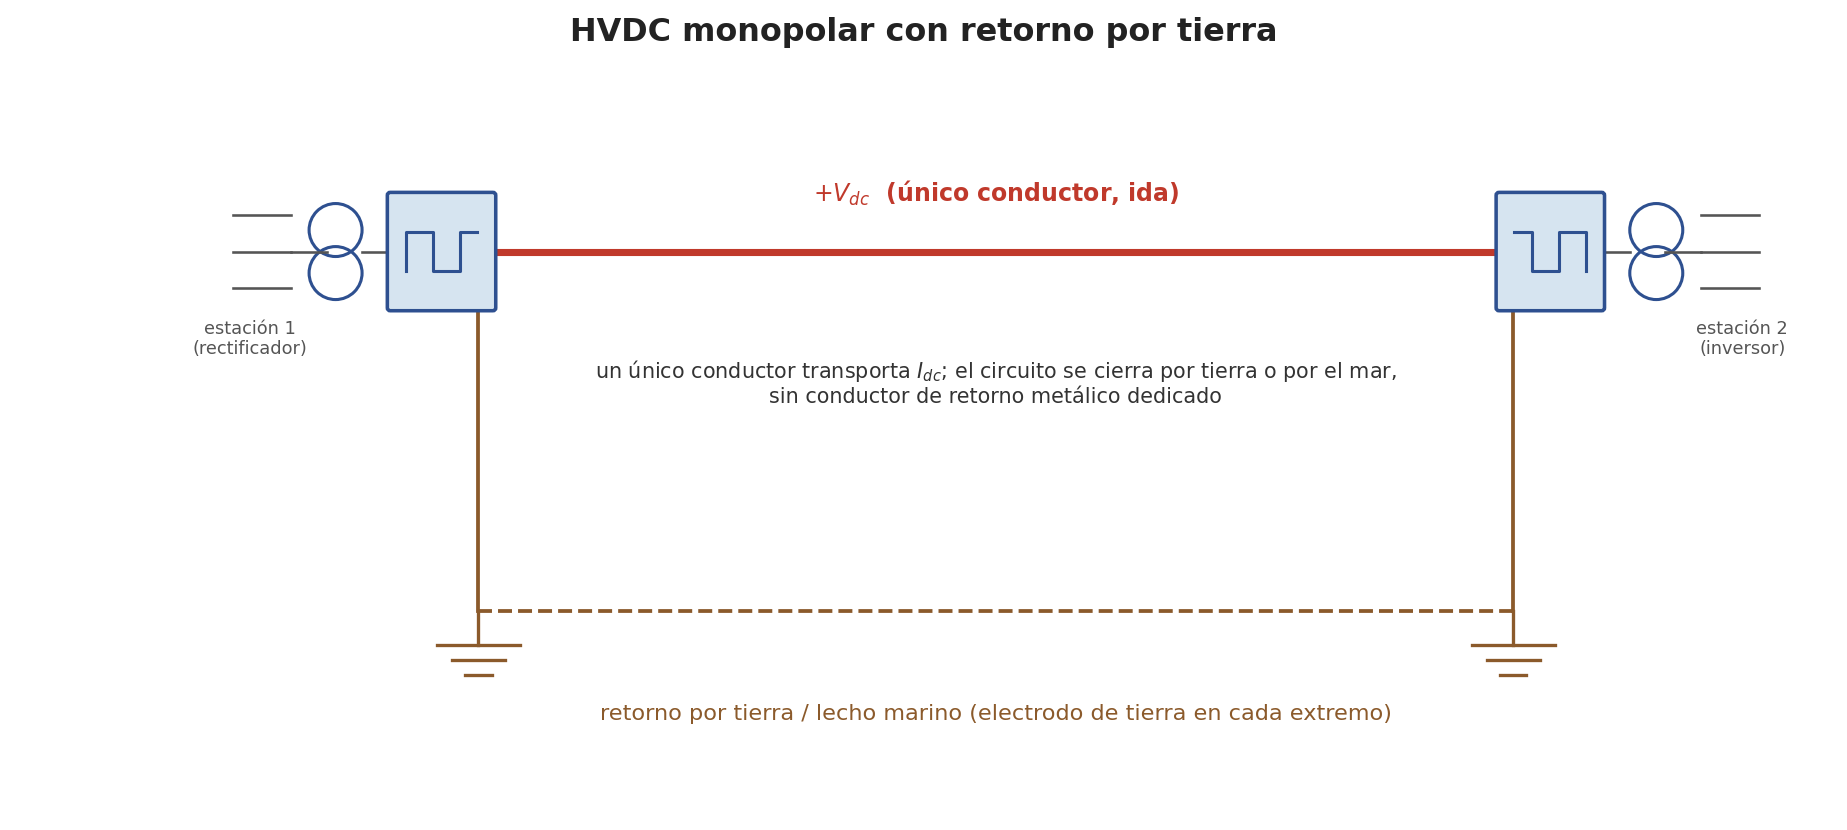
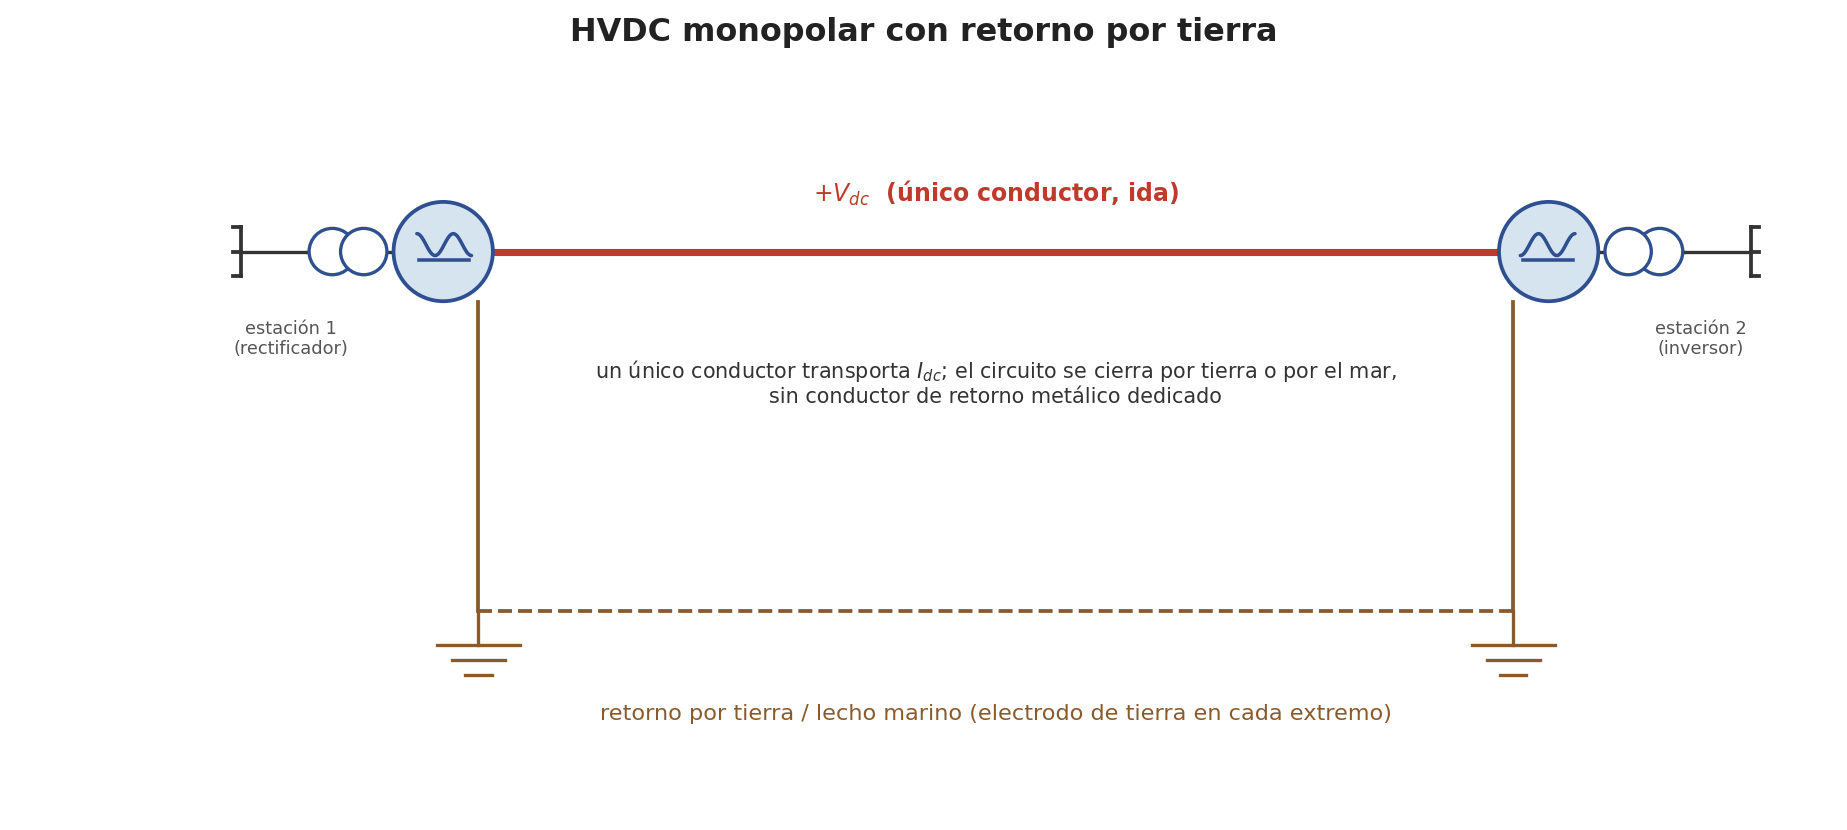
hvdc config: corrige el simbolo del terminal, que se veia mal por dos razones: el transformador tenia los dos circulos apilados verticalmente (parecia girado 90 grados) en vez de en serie a lo largo del cable como el simbolo unifilar real, y el convertidor usaba una onda cuadrada inventada sin signi

diff --git a/00 - Repositorio/gen_figuras.py b/00 - Repositorio/gen_figuras.py
@@ -16233,33 +16233,47 @@ def _lcc_conmutacion_natural():
 
 
 def _hvdc_terminal(ax, x, y, lbl='', flip=False, scale=1.0, col='#2e5090'):
-    """Dibuja un terminal VSC-HVDC estilizado: red AC (barras trifasicas) ->
-    transformador (dos circulos solapados) -> convertidor (rectangulo con
-    simbolo de onda). flip=True lo dibuja en espejo (terminal de la derecha,
-    apuntando hacia la izquierda)."""
-    import matplotlib.patches as mpatches
+    """Dibuja un terminal VSC-HVDC con simbologia unifilar estandar: barras
+    trifasicas (3 rayas) -> transformador (dos circulos EN LA DIRECCION DEL
+    CABLE, uno tras otro, no apilados) -> convertidor (rombo/circulo partido
+    con simbolo IEC: ~ en el lado AC, — en el lado DC). flip=True lo dibuja
+    en espejo (terminal de la derecha, apuntando hacia la izquierda)."""
     s = scale
     d = -1 if flip else 1
-    # barras AC (3 lineas cortas entrando)
-    for dy in (-0.22, 0, 0.22):
-        ax.plot([x, x+d*0.35*s], [y+dy*s, y+dy*s], color='#555', lw=1.1)
-    # transformador: dos circulos solapados
-    cx = x + d*0.62*s
-    ax.add_patch(plt.Circle((cx, y+0.13*s), 0.16*s, facecolor='none', edgecolor=col, lw=1.3))
-    ax.add_patch(plt.Circle((cx, y-0.13*s), 0.16*s, facecolor='none', edgecolor=col, lw=1.3))
-    ax.plot([x+d*0.35*s, cx-d*0.05*s], [y, y], color='#555', lw=1.1)
-    # convertidor: rectangulo con onda cuadrada estilizada dentro
-    rx0 = x + d*0.95*s
-    rw = d*0.62*s
-    ax.add_patch(mpatches.FancyBboxPatch((min(rx0, rx0+rw), y-0.34*s), abs(rw), 0.68*s,
-        boxstyle='round,pad=0.02', facecolor='#D6E4F0', edgecolor=col, lw=1.5, zorder=4))
-    ax.plot([rx0+rw*0.15, rx0+rw*0.15, rx0+rw*0.42, rx0+rw*0.42, rx0+rw*0.68, rx0+rw*0.68, rx0+rw*0.85],
-            [y-0.12*s, y+0.12*s, y+0.12*s, y-0.12*s, y-0.12*s, y+0.12*s, y+0.12*s],
-            color=col, lw=1.3, zorder=5)
-    ax.plot([cx+d*0.16*s, rx0+min(0, rw)], [y, y], color='#555', lw=1.1)
+
+    # ---- barras AC trifasicas: 3 rayas cortas perpendiculares al cable ----
+    xac = x
+    for dy in (-0.15, 0, 0.15):
+        ax.plot([x, x+d*0.05*s], [y+dy*s, y+dy*s], color='#333', lw=1.6)
+    ax.plot([x+d*0.05*s, x+d*0.05*s], [y-0.15*s, y+0.15*s], color='#333', lw=1.6)
+    ax.plot([x+d*0.05*s, x+d*0.45*s], [y, y], color='#333', lw=1.4)
+
+    # ---- transformador: dos circulos EN SERIE a lo largo del cable (simbolo IEC) ----
+    r_xf = 0.14*s
+    c1x = x + d*0.60*s
+    c2x = x + d*0.60*s + d*0.19*s
+    ax.add_patch(plt.Circle((c1x, y), r_xf, facecolor='white', edgecolor=col, lw=1.4, zorder=4))
+    ax.add_patch(plt.Circle((c2x, y), r_xf, facecolor='white', edgecolor=col, lw=1.4, zorder=5))
+    ax.plot([x+d*0.45*s, c1x-r_xf], [y, y], color='#333', lw=1.4)
+
+    # ---- convertidor: circulo con simbolo IEC de convertidor AC/DC (~ | —) ----
+    r_c = 0.30*s
+    cvx = x + d*(0.60+0.19+0.14+0.34)*s
+    ax.plot([c2x+r_xf, cvx-r_c], [y, y], color='#333', lw=1.4)
+    ax.add_patch(plt.Circle((cvx, y), r_c, facecolor='#D6E4F0', edgecolor=col, lw=1.6, zorder=6))
+    # simbolo IEC estandar del convertidor: una sola senoide horizontal (~)
+    # cruzando el circulo, con una raya recta (—) debajo indicando el lado DC
+    ax_side = -d  # lado AC (donde arranca la onda, hacia la red)
+    tt = np.linspace(-1, 1, 80)
+    wx_c = cvx - ax_side*0.02*r_c
+    wxx = wx_c + tt*0.55*r_c
+    wyy = y + 0.22*r_c*np.sin(tt*np.pi*1.5)*ax_side*(-1)
+    ax.plot(wxx, wyy + 0.14*r_c, color=col, lw=1.5, zorder=7, solid_capstyle='round')
+    ax.plot([wx_c-0.5*r_c, wx_c+0.5*r_c], [y-0.16*r_c, y-0.16*r_c], color=col, lw=1.5, zorder=7)
+
     if lbl:
-        ax.text(x+d*0.1*s, y-0.62*s, lbl, fontsize=7.5, color='#555', ha='center' if not flip else 'center')
-    return rx0+rw  # borde DC del terminal
+        ax.text(x+d*0.35*s, y-0.62*s, lbl, fontsize=7.5, color='#555', ha='center')
+    return cvx + d*r_c  # borde DC del terminal (donde empieza el conductor de linea)
 
 
 def _hvdc_ground_symbol(ax, x, y, scale=1.0):
